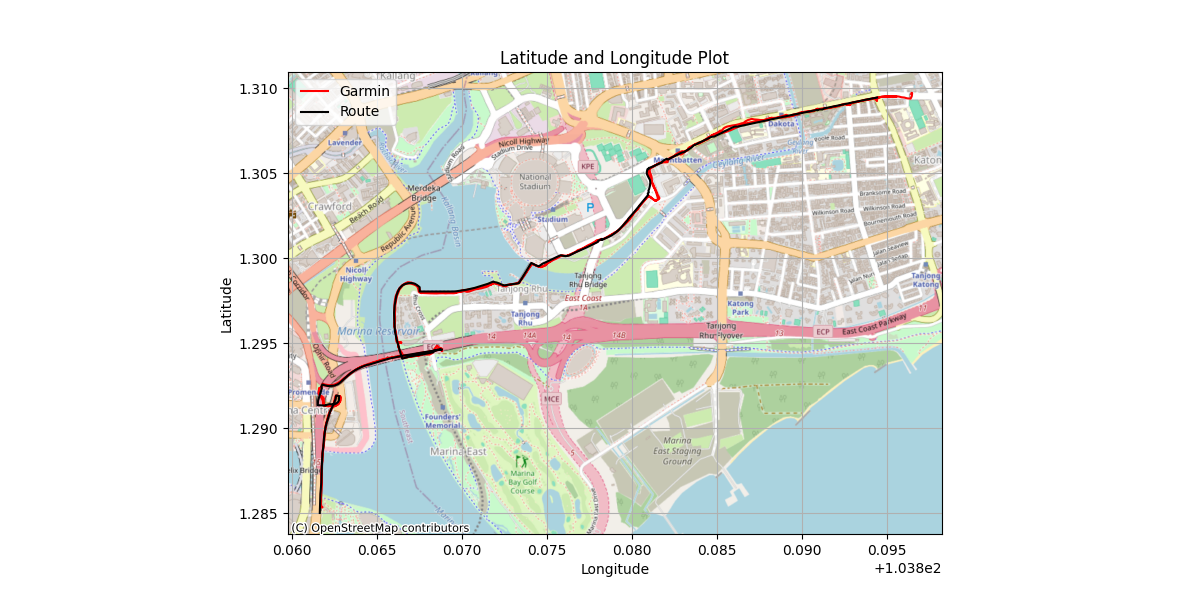
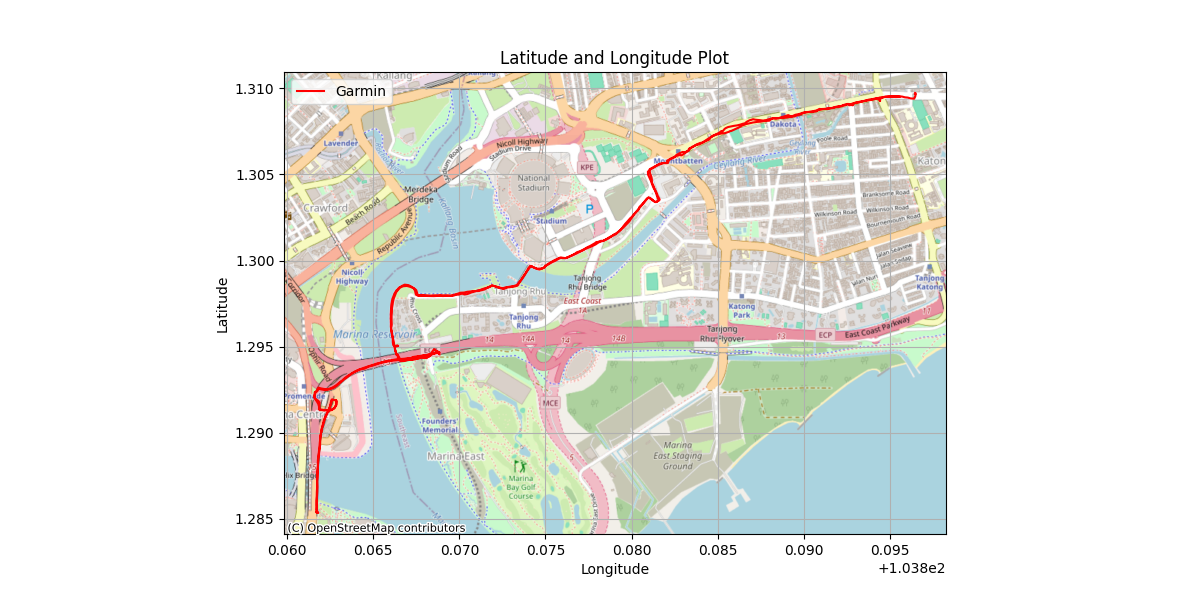
Cleanup plots

Changed region(s): [[0.185, 0.12, 0.8017, 0.93], [0.6475, 0.9, 0.8017, 0.96], [0.5858, 0.9, 0.6167, 0.93]]

diff --git a/scripts/plots.py b/scripts/plots.py
@@ -41,10 +41,9 @@ def parse_gpx(filepath):
   
   return df
 
-def plot_location(df, route_df, label, color, output_dir, filename):
+def plot_location(df, label, color, output_dir, filename):
   plt.figure(figsize=(12, 6))
   plt.plot(df['longitude'], df['latitude'], color=color, linestyle='-', label=label)
-  plt.plot(route_df['longitude'], route_df['latitude'], color='black', linestyle='-', label='Route')
   ctx.add_basemap(plt.gca(), crs='EPSG:4326', source=ctx.providers.OpenStreetMap.Mapnik)
   plt.xlabel('Longitude')
   plt.ylabel('Latitude')
@@ -65,8 +64,9 @@ def main(args):
   route_df = parse_gpx(input_dir + '/route.gpx')
   elevation_df = parse_gpx(input_dir + '/elevation.gpx')
 
-  plot_location(polar_df, route_df, 'Polar', 'blue', output_dir, 'polar-location.png')
-  plot_location(garmin_df, route_df, 'Garmin', 'red', output_dir, 'garmin-location.png')
+  plot_location(polar_df, 'Polar', 'blue', output_dir, 'polar-location.png')
+  plot_location(garmin_df, 'Garmin', 'red', output_dir, 'garmin-location.png')
+  plot_location(route_df, 'Route', 'black', output_dir, 'route-location.png')
 
   plt.figure(figsize=(12, 6))
   plt.plot(polar_df['time'], polar_df['elevation'], color='blue', label='Polar')
